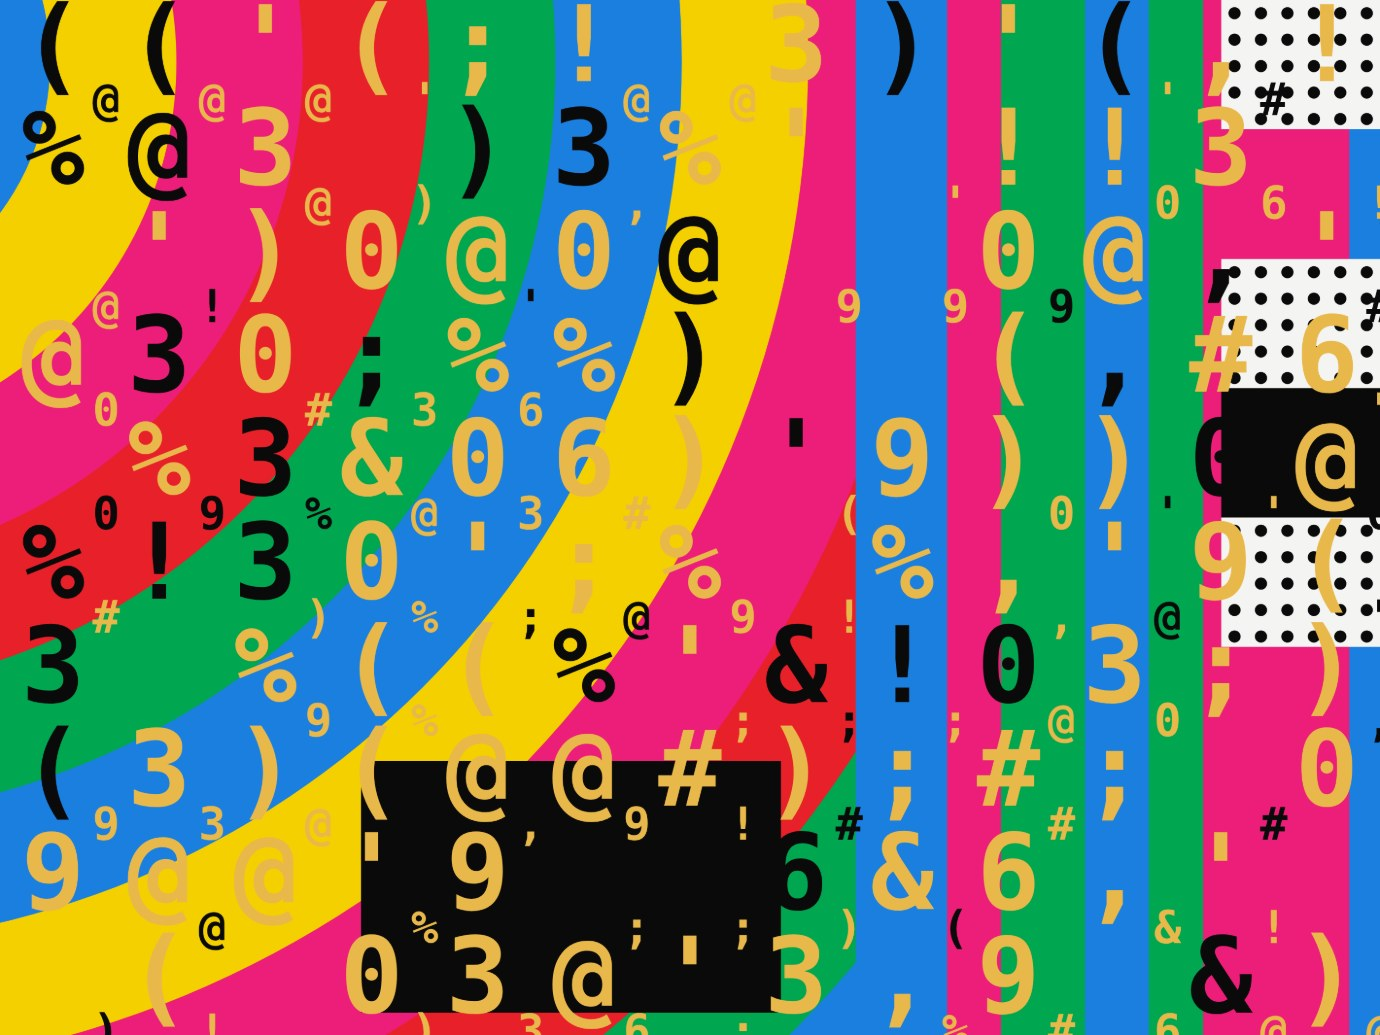
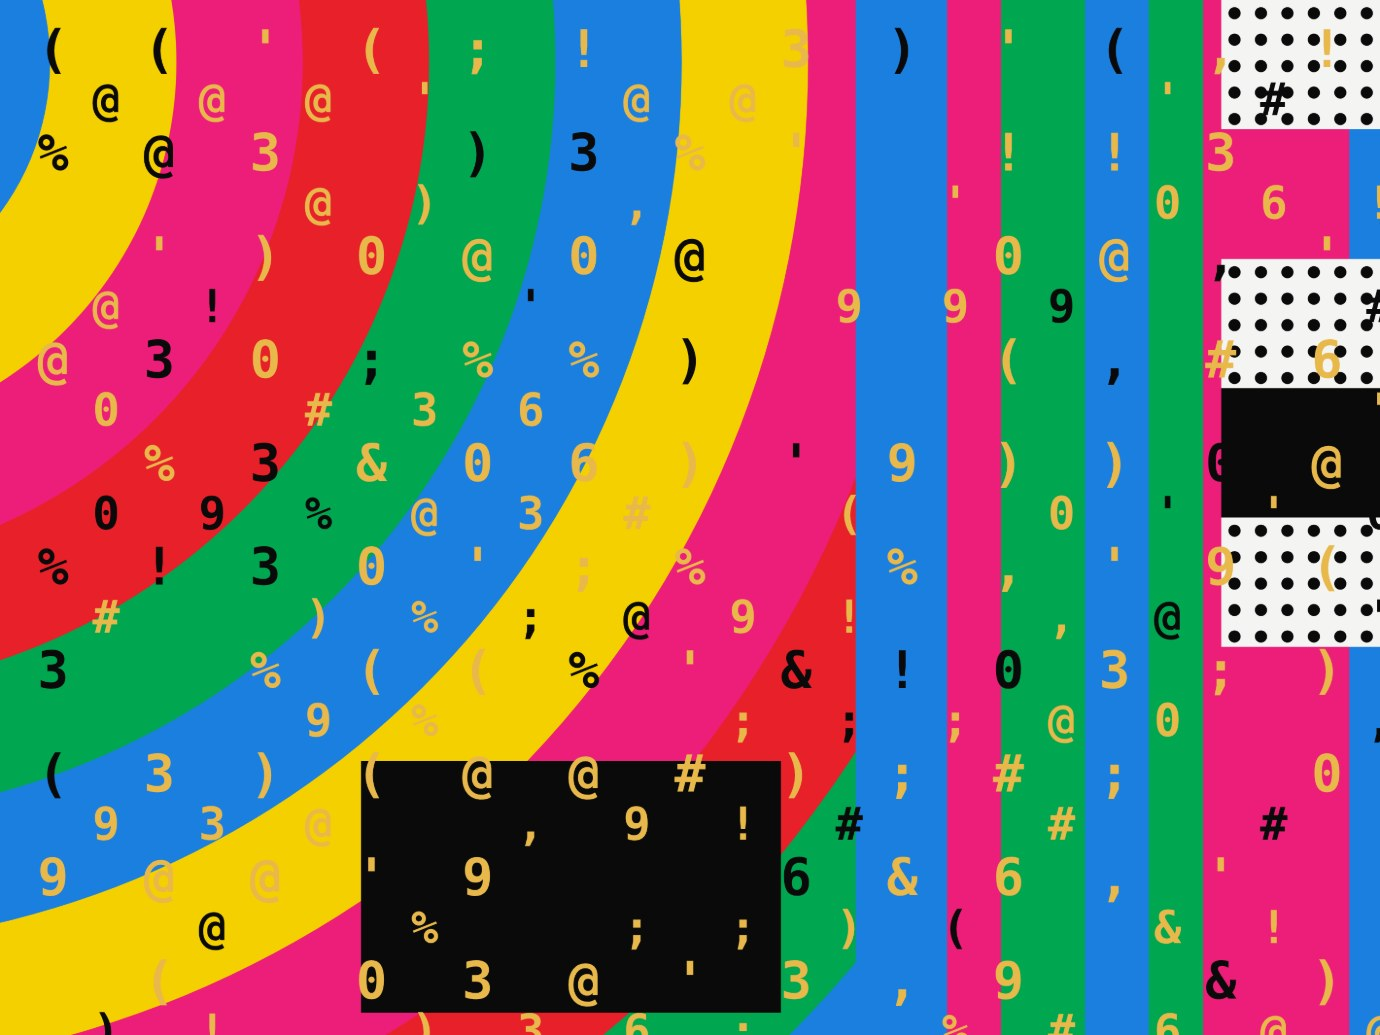
Space the Animate and Export pills on phones; Kiosk large type at 50%
Stacked, the right rail's three blocks fall into ordinary flow and the
two pills ended up edge to edge — on the desktop rig it is the auto
margins centring Animate that hold them apart, and those collapse to
nothing once the rail is a column of blocks. Measured at 390px, the
gap was 0px on all 31 tools; it is 26px on all 31 now.

Kiosk's Large size now starts at 50% rather than 102%, so the colour
bands carry the page and the type sits on them. Card art regenerated
to match.

Sweeps pass 31 of 31.

Claude-Session: https://claude.ai/code/session_01Hb5jk9z6h4o1AzZNFzskh6

diff --git a/kiosk/index.html b/kiosk/index.html
@@ -373,6 +373,11 @@ input[type=range]{accent-color:var(--ink)}
   .z-right .chips,.expmenu,.z-right .tbl,.z-br .tbl{justify-content:start}
   .btnrow{justify-content:flex-start}
   .rightblock{width:auto}
+  /* Stacked, the right rail's three blocks fall into ordinary flow and the
+     Animate and Export pills end up edge to edge — on the desktop rig it is
+     the auto margins centring Animate that hold them apart, and those collapse
+     to nothing here. */
+  .r-mid,.r-bot{margin-top:26px}
   .z-bottom{justify-self:stretch;text-align:left}
   .caps,.tport{justify-content:flex-start}
   .mark{display:none}
@@ -411,7 +416,7 @@ input[type=range]{accent-color:var(--ink)}
                  autocomplete="off" aria-label="Your own characters"
                  placeholder="type any characters"></span></div>
         <div class="pr"><div class="top"><span class="k">Columns</span><span class="v" id="gridVal">13</span></div><div class="track"><input type="range" id="grid" min="4" max="30" step="1" value="13"></div></div>
-        <div class="pr"><div class="top"><span class="k">Large size</span><span class="v" id="bigSizeVal">102%</span></div><div class="track"><input type="range" id="bigSize" min="0.3" max="1.6" step="0.01" value="1.02"></div></div>
+        <div class="pr"><div class="top"><span class="k">Large size</span><span class="v" id="bigSizeVal">50%</span></div><div class="track"><input type="range" id="bigSize" min="0.3" max="1.6" step="0.01" value="0.5"></div></div>
         <div class="pr"><div class="top"><span class="k">How many large</span><span class="v" id="densityVal">84%</span></div><div class="track"><input type="range" id="density" min="0" max="1" step="0.01" value="0.84"></div></div>
         <div class="pr"><div class="top"><span class="k">Small size</span><span class="v" id="smallSizeVal">44%</span></div><div class="track"><input type="range" id="smallSize" min="0.1" max="0.9" step="0.01" value="0.44"></div></div>
         <div class="pr"><div class="top"><span class="k">How many small</span><span class="v" id="smallVal">60%</span></div><div class="track"><input type="range" id="small" min="0" max="1" step="0.01" value="0.6"></div></div></div></details>
@@ -547,7 +552,7 @@ const PALETTES=[
 const S={
   seed:7, ratio:"4:5", set:"dos", custom:CUSTOM_DEFAULT,
   split:0.62, rings:15, stripes:9,
-  grid:13, density:0.84, small:0.60, bigSize:1.02, smallSize:0.44,
+  grid:13, density:0.84, small:0.60, bigSize:0.50, smallSize:0.44,
   blocks:0.62,
   pal:PALETTES[0].slice(),
   motion:{on:false,mode:"shuffle",amount:0.6,fps:6,frames:24},

diff --git a/atlas/index.html b/atlas/index.html
@@ -373,6 +373,11 @@ input[type=range]{accent-color:var(--ink)}
   .z-right .chips,.expmenu,.z-right .tbl,.z-br .tbl{justify-content:start}
   .btnrow{justify-content:flex-start}
   .rightblock{width:auto}
+  /* Stacked, the right rail's three blocks fall into ordinary flow and the
+     Animate and Export pills end up edge to edge — on the desktop rig it is
+     the auto margins centring Animate that hold them apart, and those collapse
+     to nothing here. */
+  .r-mid,.r-bot{margin-top:26px}
   .z-bottom{justify-self:stretch;text-align:left}
   .caps,.tport{justify-content:flex-start}
   .mark{display:none}

diff --git a/aura/index.html b/aura/index.html
@@ -373,6 +373,11 @@ input[type=range]{accent-color:var(--ink)}
   .z-right .chips,.expmenu,.z-right .tbl,.z-br .tbl{justify-content:start}
   .btnrow{justify-content:flex-start}
   .rightblock{width:auto}
+  /* Stacked, the right rail's three blocks fall into ordinary flow and the
+     Animate and Export pills end up edge to edge — on the desktop rig it is
+     the auto margins centring Animate that hold them apart, and those collapse
+     to nothing here. */
+  .r-mid,.r-bot{margin-top:26px}
   .z-bottom{justify-self:stretch;text-align:left}
   .caps,.tport{justify-content:flex-start}
   .mark{display:none}

diff --git a/circuit/index.html b/circuit/index.html
@@ -373,6 +373,11 @@ input[type=range]{accent-color:var(--ink)}
   .z-right .chips,.expmenu,.z-right .tbl,.z-br .tbl{justify-content:start}
   .btnrow{justify-content:flex-start}
   .rightblock{width:auto}
+  /* Stacked, the right rail's three blocks fall into ordinary flow and the
+     Animate and Export pills end up edge to edge — on the desktop rig it is
+     the auto margins centring Animate that hold them apart, and those collapse
+     to nothing here. */
+  .r-mid,.r-bot{margin-top:26px}
   .z-bottom{justify-self:stretch;text-align:left}
   .caps,.tport{justify-content:flex-start}
   .mark{display:none}

diff --git a/delta/index.html b/delta/index.html
@@ -373,6 +373,11 @@ input[type=range]{accent-color:var(--ink)}
   .z-right .chips,.expmenu,.z-right .tbl,.z-br .tbl{justify-content:start}
   .btnrow{justify-content:flex-start}
   .rightblock{width:auto}
+  /* Stacked, the right rail's three blocks fall into ordinary flow and the
+     Animate and Export pills end up edge to edge — on the desktop rig it is
+     the auto margins centring Animate that hold them apart, and those collapse
+     to nothing here. */
+  .r-mid,.r-bot{margin-top:26px}
   .z-bottom{justify-self:stretch;text-align:left}
   .caps,.tport{justify-content:flex-start}
   .mark{display:none}

diff --git a/ember/index.html b/ember/index.html
@@ -373,6 +373,11 @@ input[type=range]{accent-color:var(--ink)}
   .z-right .chips,.expmenu,.z-right .tbl,.z-br .tbl{justify-content:start}
   .btnrow{justify-content:flex-start}
   .rightblock{width:auto}
+  /* Stacked, the right rail's three blocks fall into ordinary flow and the
+     Animate and Export pills end up edge to edge — on the desktop rig it is
+     the auto margins centring Animate that hold them apart, and those collapse
+     to nothing here. */
+  .r-mid,.r-bot{margin-top:26px}
   .z-bottom{justify-self:stretch;text-align:left}
   .caps,.tport{justify-content:flex-start}
   .mark{display:none}

diff --git a/emblem/index.html b/emblem/index.html
@@ -373,6 +373,11 @@ input[type=range]{accent-color:var(--ink)}
   .z-right .chips,.expmenu,.z-right .tbl,.z-br .tbl{justify-content:start}
   .btnrow{justify-content:flex-start}
   .rightblock{width:auto}
+  /* Stacked, the right rail's three blocks fall into ordinary flow and the
+     Animate and Export pills end up edge to edge — on the desktop rig it is
+     the auto margins centring Animate that hold them apart, and those collapse
+     to nothing here. */
+  .r-mid,.r-bot{margin-top:26px}
   .z-bottom{justify-self:stretch;text-align:left}
   .caps,.tport{justify-content:flex-start}
   .mark{display:none}

diff --git a/fete/index.html b/fete/index.html
@@ -373,6 +373,11 @@ input[type=range]{accent-color:var(--ink)}
   .z-right .chips,.expmenu,.z-right .tbl,.z-br .tbl{justify-content:start}
   .btnrow{justify-content:flex-start}
   .rightblock{width:auto}
+  /* Stacked, the right rail's three blocks fall into ordinary flow and the
+     Animate and Export pills end up edge to edge — on the desktop rig it is
+     the auto margins centring Animate that hold them apart, and those collapse
+     to nothing here. */
+  .r-mid,.r-bot{margin-top:26px}
   .z-bottom{justify-self:stretch;text-align:left}
   .caps,.tport{justify-content:flex-start}
   .mark{display:none}

diff --git a/filament/index.html b/filament/index.html
@@ -373,6 +373,11 @@ input[type=range]{accent-color:var(--ink)}
   .z-right .chips,.expmenu,.z-right .tbl,.z-br .tbl{justify-content:start}
   .btnrow{justify-content:flex-start}
   .rightblock{width:auto}
+  /* Stacked, the right rail's three blocks fall into ordinary flow and the
+     Animate and Export pills end up edge to edge — on the desktop rig it is
+     the auto margins centring Animate that hold them apart, and those collapse
+     to nothing here. */
+  .r-mid,.r-bot{margin-top:26px}
   .z-bottom{justify-self:stretch;text-align:left}
   .caps,.tport{justify-content:flex-start}
   .mark{display:none}

diff --git a/magnet/index.html b/magnet/index.html
@@ -373,6 +373,11 @@ input[type=range]{accent-color:var(--ink)}
   .z-right .chips,.expmenu,.z-right .tbl,.z-br .tbl{justify-content:start}
   .btnrow{justify-content:flex-start}
   .rightblock{width:auto}
+  /* Stacked, the right rail's three blocks fall into ordinary flow and the
+     Animate and Export pills end up edge to edge — on the desktop rig it is
+     the auto margins centring Animate that hold them apart, and those collapse
+     to nothing here. */
+  .r-mid,.r-bot{margin-top:26px}
   .z-bottom{justify-self:stretch;text-align:left}
   .caps,.tport{justify-content:flex-start}
   .mark{display:none}

diff --git a/mist/index.html b/mist/index.html
@@ -373,6 +373,11 @@ input[type=range]{accent-color:var(--ink)}
   .z-right .chips,.expmenu,.z-right .tbl,.z-br .tbl{justify-content:start}
   .btnrow{justify-content:flex-start}
   .rightblock{width:auto}
+  /* Stacked, the right rail's three blocks fall into ordinary flow and the
+     Animate and Export pills end up edge to edge — on the desktop rig it is
+     the auto margins centring Animate that hold them apart, and those collapse
+     to nothing here. */
+  .r-mid,.r-bot{margin-top:26px}
   .z-bottom{justify-self:stretch;text-align:left}
   .caps,.tport{justify-content:flex-start}
   .mark{display:none}

diff --git a/modular/index.html b/modular/index.html
@@ -373,6 +373,11 @@ input[type=range]{accent-color:var(--ink)}
   .z-right .chips,.expmenu,.z-right .tbl,.z-br .tbl{justify-content:start}
   .btnrow{justify-content:flex-start}
   .rightblock{width:auto}
+  /* Stacked, the right rail's three blocks fall into ordinary flow and the
+     Animate and Export pills end up edge to edge — on the desktop rig it is
+     the auto margins centring Animate that hold them apart, and those collapse
+     to nothing here. */
+  .r-mid,.r-bot{margin-top:26px}
   .z-bottom{justify-self:stretch;text-align:left}
   .caps,.tport{justify-content:flex-start}
   .mark{display:none}
